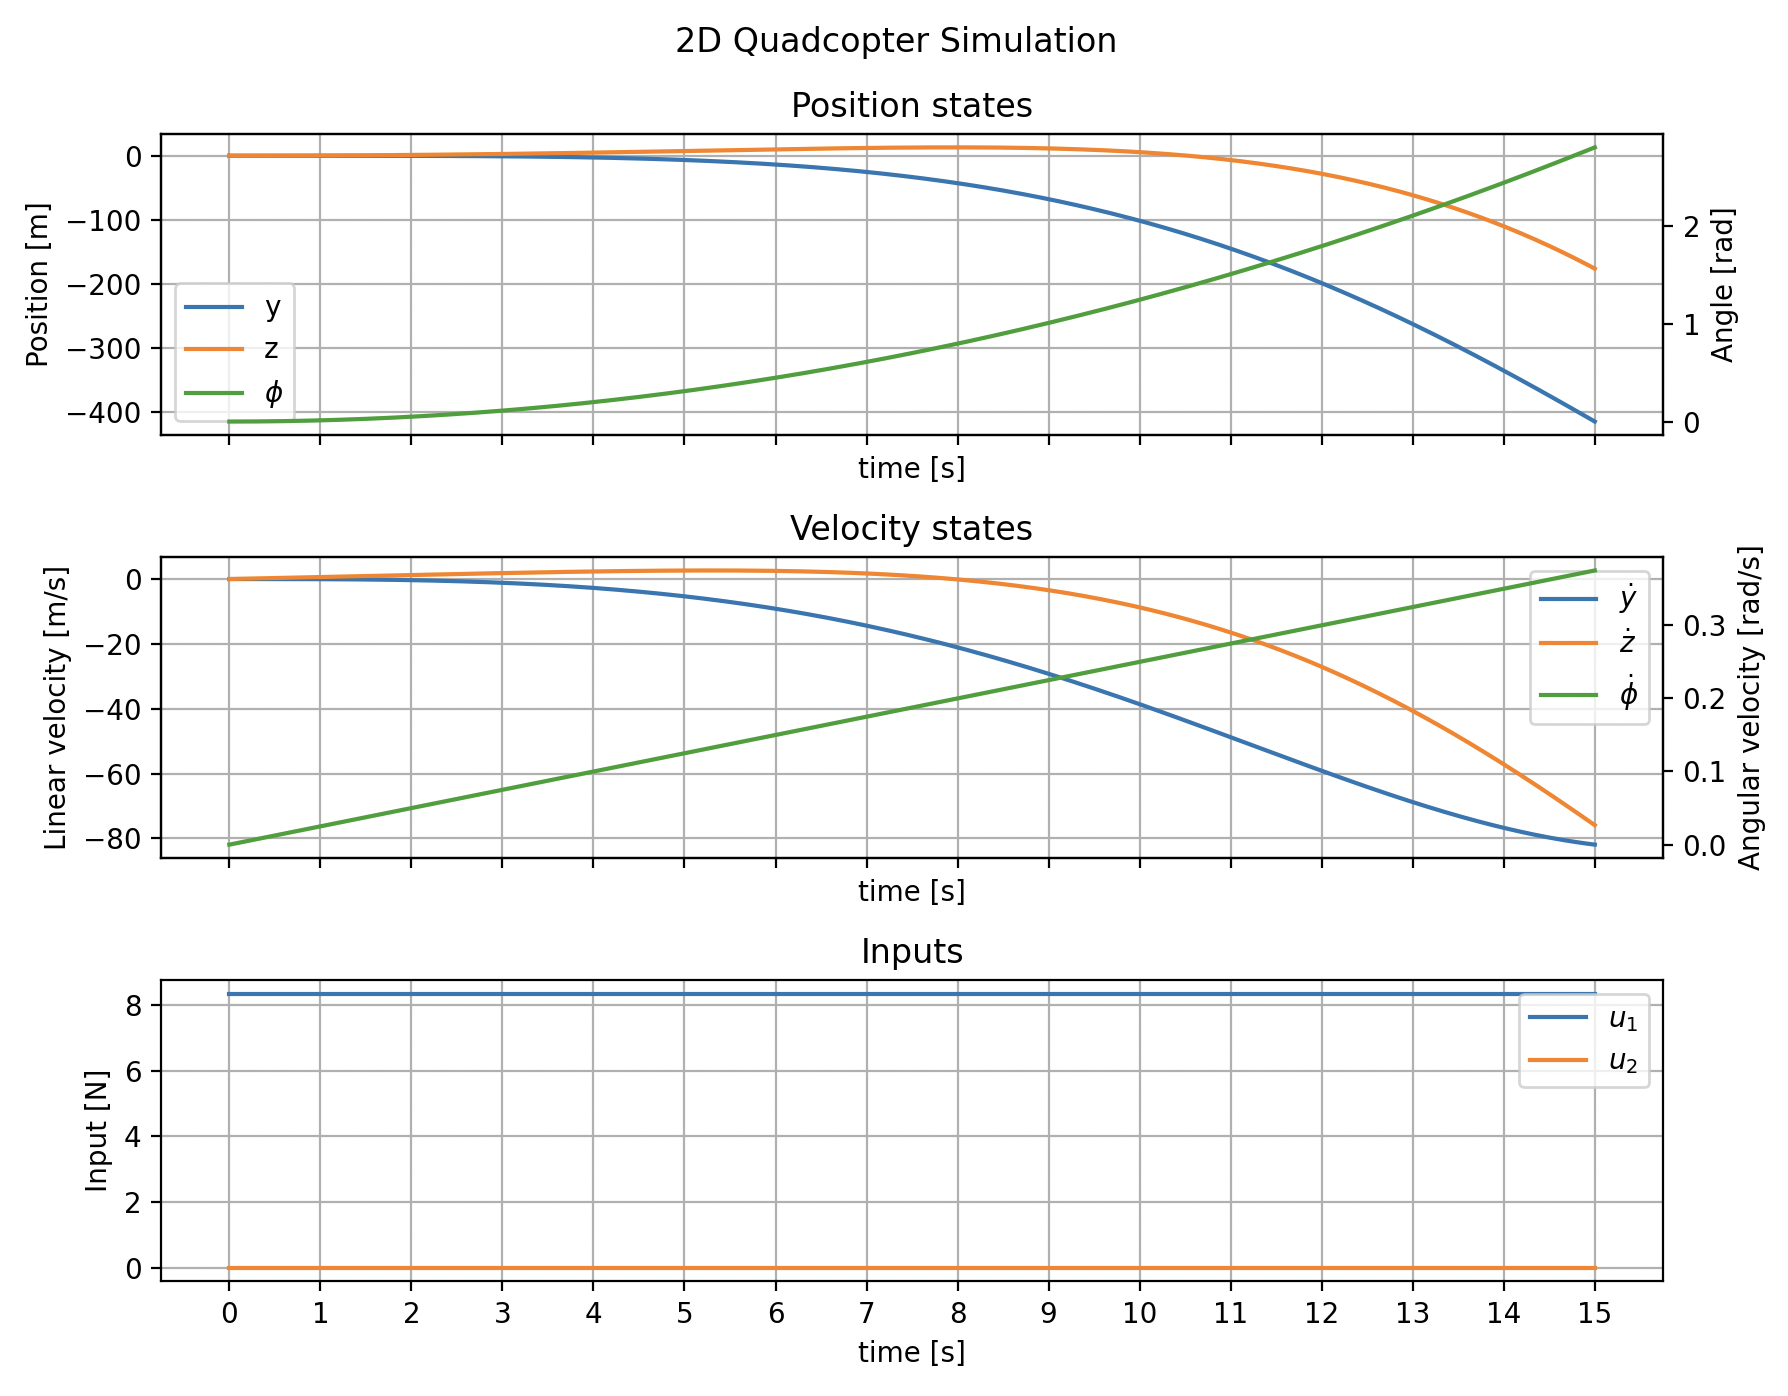
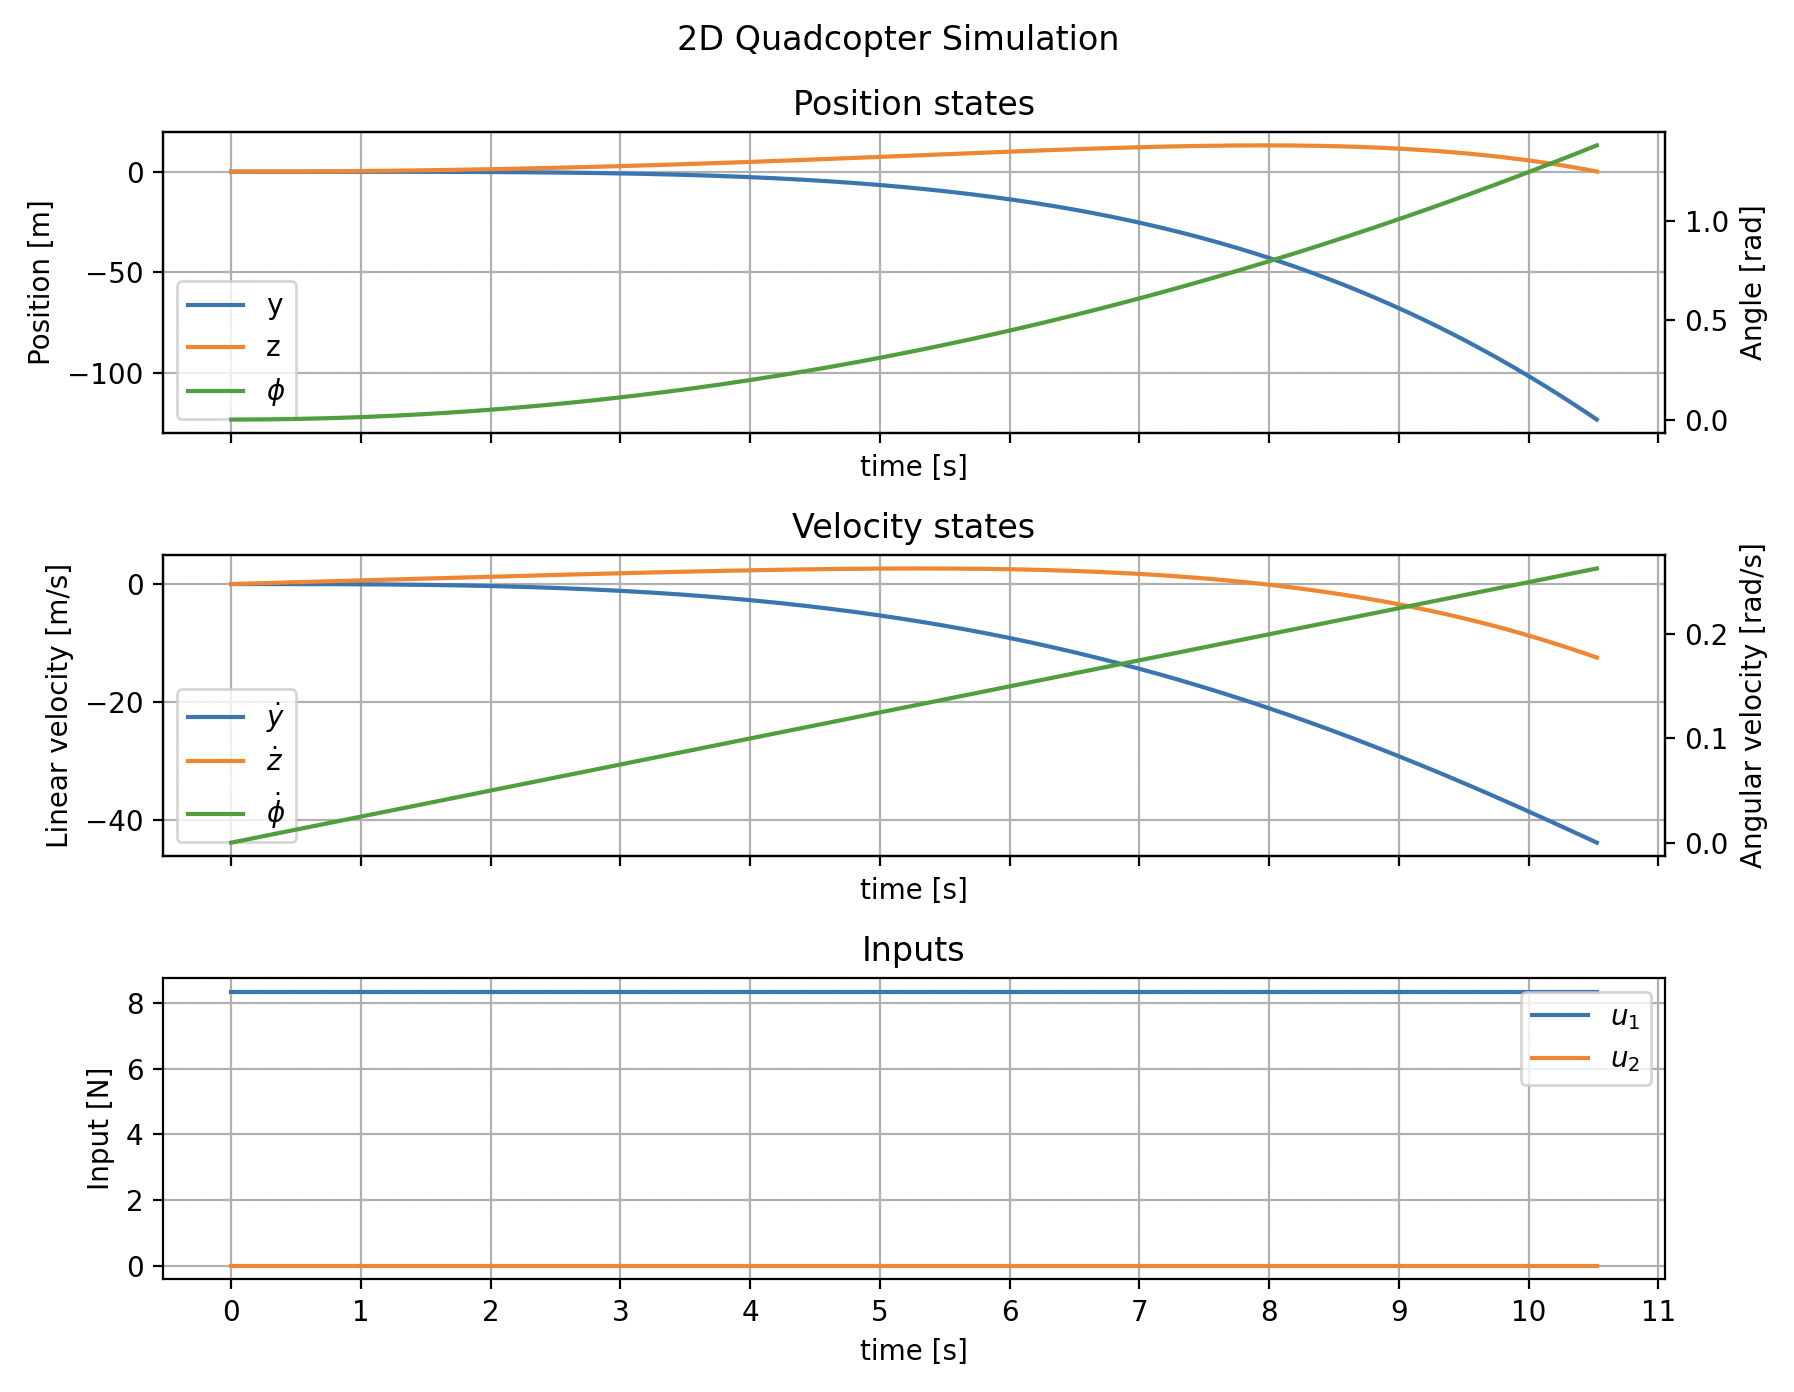
Enhance 2D quadcopter simulation post with additional explanations, visualizations, and a new simulation script

diff --git a/assets/js/2d-quadcopter-simulation/sim-viz.js b/assets/js/2d-quadcopter-simulation/sim-viz.js
@@ -1,0 +1,262 @@
+// === Physics parameters (match Python simulation) ===
+const m = 0.8;    // kg
+const g = 9.81;   // m/s^2
+const l = 0.5;    // m (arm half-length)
+const I = 1e-3;   // kg*m^2
+
+const t_start = 0.0;
+const t_stop = 15.0;
+const n_steps = 1000;
+const dt = (t_stop - t_start) / (n_steps - 1);
+
+function runSimulation(u0, u1) {
+    function dynamics(x) {
+        const phi = x[2];
+        const y_dot = x[3];
+        const z_dot = x[4];
+        const phi_dot = x[5];
+        return [
+            y_dot,
+            z_dot,
+            phi_dot,
+            -u0 / m * Math.sin(phi),
+            u0 / m * Math.cos(phi) - g,
+            u1 / I * l,
+        ];
+    }
+
+    const states = new Array(n_steps);
+    states[0] = new Float64Array(6);
+    let takenOff = false;
+    let count = 1;
+    for (let i = 0; i < n_steps - 1; i++) {
+        const x = states[i];
+        const dx = dynamics(x);
+        const xn = new Float64Array(6);
+        for (let j = 0; j < 6; j++) xn[j] = x[j] + dx[j] * dt;
+        states[i + 1] = xn;
+        count++;
+        if (!takenOff && xn[1] > 0.05) takenOff = true;
+        if (takenOff && xn[1] < 0) break;
+    }
+    return states.slice(0, count);
+}
+
+function createSimViz(canvasId, states) {
+    const canvas = document.getElementById(canvasId);
+    if (!canvas) return;
+    const ctx = canvas.getContext("2d");
+
+    const dpr = window.devicePixelRatio || 1;
+    const ASPECT = 250 / 700;
+    let CSS_W = 0;
+    let CSS_H = 0;
+
+    canvas.parentElement.style.width = "90%";
+    canvas.style.display = "block";
+    canvas.style.width = "100%";
+    canvas.style.border = "1px solid #cccccc";
+
+    function resizeCanvas() {
+        CSS_W = canvas.clientWidth;
+        CSS_H = Math.round(CSS_W * ASPECT);
+        canvas.width = CSS_W * dpr;
+        canvas.height = CSS_H * dpr;
+        canvas.style.height = CSS_H + "px";
+        ctx.setTransform(dpr, 0, 0, dpr, 0, 0);
+    }
+
+    resizeCanvas();
+    window.addEventListener("resize", resizeCanvas);
+
+    const BASE_SCALE = 80; // pixels per meter at rest
+    let scale = BASE_SCALE;
+
+    function toCanvas(worldY, worldZ, camY, camZ) {
+        return [
+            CSS_W / 2 + (worldY - camY) * scale,
+            CSS_H / 2 - (worldZ - camZ) * scale,
+        ];
+    }
+
+    function drawGrid(camY, camZ) {
+        const halfW = CSS_W / 2 / scale;
+        const halfH = CSS_H / 2 / scale;
+
+        const yMin = Math.floor(camY - halfW) - 1;
+        const yMax = Math.ceil(camY + halfW) + 1;
+        const zMin = Math.floor(camZ - halfH) - 1;
+        const zMax = Math.ceil(camZ + halfH) + 1;
+
+        ctx.lineWidth = 1;
+
+        for (let wy = yMin; wy <= yMax; wy++) {
+            ctx.strokeStyle = wy === 0 ? "#aaaaaa" : "#dddddd";
+            ctx.beginPath();
+            const [cx] = toCanvas(wy, 0, camY, camZ);
+            ctx.moveTo(cx, 0);
+            ctx.lineTo(cx, CSS_H);
+            ctx.stroke();
+        }
+
+        for (let wz = zMin; wz <= zMax; wz++) {
+            ctx.strokeStyle = wz === 0 ? "#aaaaaa" : "#dddddd";
+            ctx.beginPath();
+            const [, cy] = toCanvas(0, wz, camY, camZ);
+            ctx.moveTo(0, cy);
+            ctx.lineTo(CSS_W, cy);
+            ctx.stroke();
+        }
+    }
+
+    function drawDrone(worldY, worldZ, phi, camY, camZ) {
+        const [cx, cy] = toCanvas(worldY, worldZ, camY, camZ);
+
+        const s = scale / BASE_SCALE;  // shrink factor relative to base zoom
+        const bodyW = 2 * l * scale; // scales with world
+        const bodyH = 4 * s;
+        const motorW = 10 * s;
+        const motorH = 14 * s;
+        const motorX = bodyW / 2;
+        const propLobe = 15 * s;
+        const propH = 5 * s;
+        const propY = -(motorH / 2 + 7 * s);
+
+        ctx.save();
+        ctx.translate(cx, cy);
+        ctx.rotate(-phi);
+
+        // --- Propellers (behind everything else) ---
+        for (const sign of [-1, 1]) {
+            ctx.save();
+            ctx.translate(sign * motorX, propY);
+
+            // Figure-8 / infinity sign built from 4 cubic bezier curves
+            ctx.beginPath();
+            ctx.moveTo(0, 0);
+            ctx.bezierCurveTo(propLobe * 0.5, -propH * 2, propLobe, -propH * 2, propLobe, 0);
+            ctx.bezierCurveTo(propLobe, propH * 2, propLobe * 0.5, propH * 2, 0, 0);
+            ctx.bezierCurveTo(-propLobe * 0.5, propH * 2, -propLobe, propH * 2, -propLobe, 0);
+            ctx.bezierCurveTo(-propLobe, -propH * 2, -propLobe * 0.5, -propH * 2, 0, 0);
+            ctx.closePath();
+            ctx.fillStyle = "rgba(160, 160, 160, 0.5)";
+            ctx.strokeStyle = "#aaaaaa";
+            ctx.lineWidth = 1;
+            ctx.fill();
+            ctx.stroke();
+
+            ctx.restore();
+        }
+
+        // --- Body (arm) ---
+        ctx.fillStyle = "#333333";
+        ctx.fillRect(-bodyW / 2, -bodyH / 2, bodyW, bodyH);
+
+        // --- Motors (rounded rectangles) ---
+        for (const sign of [-1, 1]) {
+            ctx.beginPath();
+            ctx.roundRect(sign * motorX - motorW / 2, -motorH / 2, motorW, motorH, 3 * s);
+            ctx.fillStyle = "#666666";
+            ctx.fill();
+        }
+
+        // --- Center dot ---
+        ctx.beginPath();
+        ctx.arc(0, 0, 3 * s, 0, Math.PI * 2);
+        ctx.fillStyle = "#000000";
+        ctx.fill();
+
+        ctx.restore();
+    }
+
+    // === Controls ===
+    const controls = document.createElement("div");
+    controls.style.cssText =
+        "display:flex;align-items:center;gap:8px;margin-top:6px;" +
+        "font-family:sans-serif;font-size:13px;";
+
+    const playBtn = document.createElement("button");
+    playBtn.textContent = "Pause";
+    playBtn.style.cssText =
+        "padding:3px 10px;cursor:pointer;font-size:13px;min-width:60px;";
+
+    const slider = document.createElement("input");
+    slider.type = "range";
+    slider.min = 0;
+    slider.max = states.length - 1;
+    slider.step = 1;
+    slider.value = 0;
+    slider.style.cssText = "flex:1;cursor:pointer;";
+
+    const timeLabel = document.createElement("span");
+    timeLabel.style.cssText = "min-width:42px;text-align:right;color:#555;";
+    timeLabel.textContent = "0.00 s";
+
+    controls.appendChild(playBtn);
+    controls.appendChild(slider);
+    controls.appendChild(timeLabel);
+    canvas.insertAdjacentElement("afterend", controls);
+
+    // === Animation state ===
+    let currentStep = 0;
+    let playing = true;
+    let lastTimestamp = null;
+    let accumulator = 0;
+
+    playBtn.addEventListener("click", () => {
+        playing = !playing;
+        playBtn.textContent = playing ? "Pause" : "Play";
+        if (!playing) lastTimestamp = null;
+        if (playing && currentStep >= states.length - 1) {
+            currentStep = 0;
+            accumulator = 0;
+        }
+    });
+
+    slider.addEventListener("input", () => {
+        currentStep = parseInt(slider.value, 10);
+        accumulator = 0;
+        lastTimestamp = null;
+    });
+
+    // === Render loop ===
+    function render(timestamp) {
+        if (playing) {
+            if (lastTimestamp !== null) {
+                accumulator += (timestamp - lastTimestamp) / 1000;
+                const steps = Math.floor(accumulator / dt);
+                accumulator -= steps * dt;
+                currentStep = Math.min(currentStep + steps, states.length - 1);
+            }
+            lastTimestamp = timestamp;
+
+            if (currentStep >= states.length - 1) {
+                playing = false;
+                playBtn.textContent = "Play";
+                lastTimestamp = null;
+            }
+        }
+
+        slider.value = currentStep;
+        timeLabel.textContent = (t_start + currentStep * dt).toFixed(2) + " s";
+
+        const x = states[currentStep];
+        const camY = x[0];
+        const camZ = x[1];
+        const speed = Math.hypot(x[3], x[4]);
+        scale = BASE_SCALE / Math.max(1, speed * 0.4);
+
+        ctx.fillStyle = "#ffffff";
+        ctx.fillRect(0, 0, CSS_W, CSS_H);
+
+        drawGrid(camY, camZ);
+        drawDrone(x[0], x[1], x[2], camY, camZ);
+
+        requestAnimationFrame(render);
+    }
+
+    requestAnimationFrame(render);
+}
+
+createSimViz("canvas-sim-viz", runSimulation(m * g + 0.01, 0.0));
+createSimViz("canvas-sim-viz-2", runSimulation(m * g + 0.5, 5e-5));

diff --git a/_posts/2026-04-03-2d-quadcopter-simulation.md b/_posts/2026-04-03-2d-quadcopter-simulation.md
@@ -13,7 +13,7 @@ title: "Simulating a 2D quadcopter from scratch"
 </script>
 
 <!-- Introduction -->
-In this post, we build a simple simulation of a 2D (planar) quadcopter.
+In this post, we build a simple simulation of a 2D (planar) quadcopter, a type of drone with four propellers.
 We will derive the equations of motion, rewrite them in state-space form, and simulate the resulting system in Python.
 
 ## Problem setup and coordinates
@@ -72,7 +72,7 @@ $$
 <!-- Equations of motion to state-space representation -->
 To simulate the system numerically, it is convenient to rewrite it in state-space form.
 For that, we must define the state $$\mathbf{x}$$, the minimal set of variables that describes the system, and the input $$\mathbf{u}$$, the variables we control.
-Our goal is an equation of the form:
+Our goal is to express how the system evolves over time in the form:
 
 $$
 \mathbf{\dot{x}} = f(\mathbf{x}, \mathbf{u})
@@ -159,7 +159,7 @@ def dynamics(x: NDArray, u: NDArray) -> NDArray:
     )
 ```
 
-With the dynamics defined, we solve the first-order ordinary differential equation with Euler's method.
+With the dynamics defined, we solve the first-order ordinary differential equation with Euler's method to calculate the full trajectory.
 We initialize the state at zero, so the quadcopter starts at the origin with no velocity and no rotation.
 We choose a constant input $$u_1 = F_1 + F_2 = mg + 0.01$$ so the quadcopter produces slightly more thrust than its weight and slowly ascends.
 We set $$u_2 = 0$$ so there is no net torque and the vehicle does not rotate.
@@ -184,6 +184,8 @@ That is the complete simulation pipeline: derive the equations of motion, conver
 
 ## Running the simulation
 
+### Zero-torque case
+
 We confirm that our simulation performs as expected with the plot shown below.
 As expected, the $$y$$ position and $$\phi$$ angle stay constant, as well as their respective velocities $$\dot{y}$$ and $$\dot{\phi}$$.
 In this constant-input, zero-torque case, the vertical acceleration is constant, so the $$z$$ position grows quadratically and the $$\dot{z}$$ velocity grows linearly.
@@ -193,14 +195,39 @@ In this constant-input, zero-torque case, the vertical acceleration is constant,
     style="max-width: 100%; display: block; margin: auto;"/>
 </figure>
 
+In addition to the static plots, I implemented a small visualizer that animates the quadcopter in the $$yz$$ plane using the simulated state trajectory.
+
+<div style="
+    display: flex;
+    flex-flow: row wrap;
+    justify-content: space-around;
+    text-align: center;
+    margin-bottom: 1.5rem;">
+  <div>
+    <p style="margin: auto;">Simulation visualizer</p>
+    <canvas id="canvas-sim-viz" style="display: block;"></canvas>
+  </div>
+</div>
+
+### Non-zero torque case
+
 Let's now apply a nonzero torque input $$u_2$$ and also increase the total thrust $$u_1$$.
-Changing the inputs to:
+Since this simple model does not include ground contact, we stop the simulation once the quadcopter crosses below $$z = 0$$, which we treat as ground level:
 
 ```python
 d_input = 2
 u = np.zeros(shape=(n_steps, d_input))
 u[:, 0] = m * g + 0.5
 u[:, 1] = 5e-5
+
+eps = 1e-8
+for i in range(n_steps - 1):
+    if x[i, 1] < -eps:  # Quadcopter crashes, stop the simulation.
+        t = t[:i]
+        x = x[:i, :]
+        u = u[:i, :]
+        break
+    x[i + 1] = x[i] + dynamics(x[i], u[i]) * dt
 ```
 
 And running the simulation gives us the plot below.
@@ -213,6 +240,20 @@ Once $$\frac{u_1}{m}\cos\phi < g$$, gravity dominates and the quadcopter starts 
     <img src="/assets/images/2d-quadcopter-simulation/matplotlib-plot-2.png"
     style="max-width: 100%; display: block; margin: auto;"/>
 </figure>
+
+<div style="
+    display: flex;
+    flex-flow: row wrap;
+    justify-content: space-around;
+    text-align: center;
+    margin-bottom: 1.5rem;">
+  <div>
+    <p style="margin: auto;">Simulation visualizer</p>
+    <canvas id="canvas-sim-viz-2" style="display: block;"></canvas>
+  </div>
+</div>
+
+<script src="/assets/js/2d-quadcopter-simulation/sim-viz.js"></script>
 
 > Note about LLM usage: This post was written fully by a human and proofread and minimally edited by gpt-5.4 default (via codex).
 
